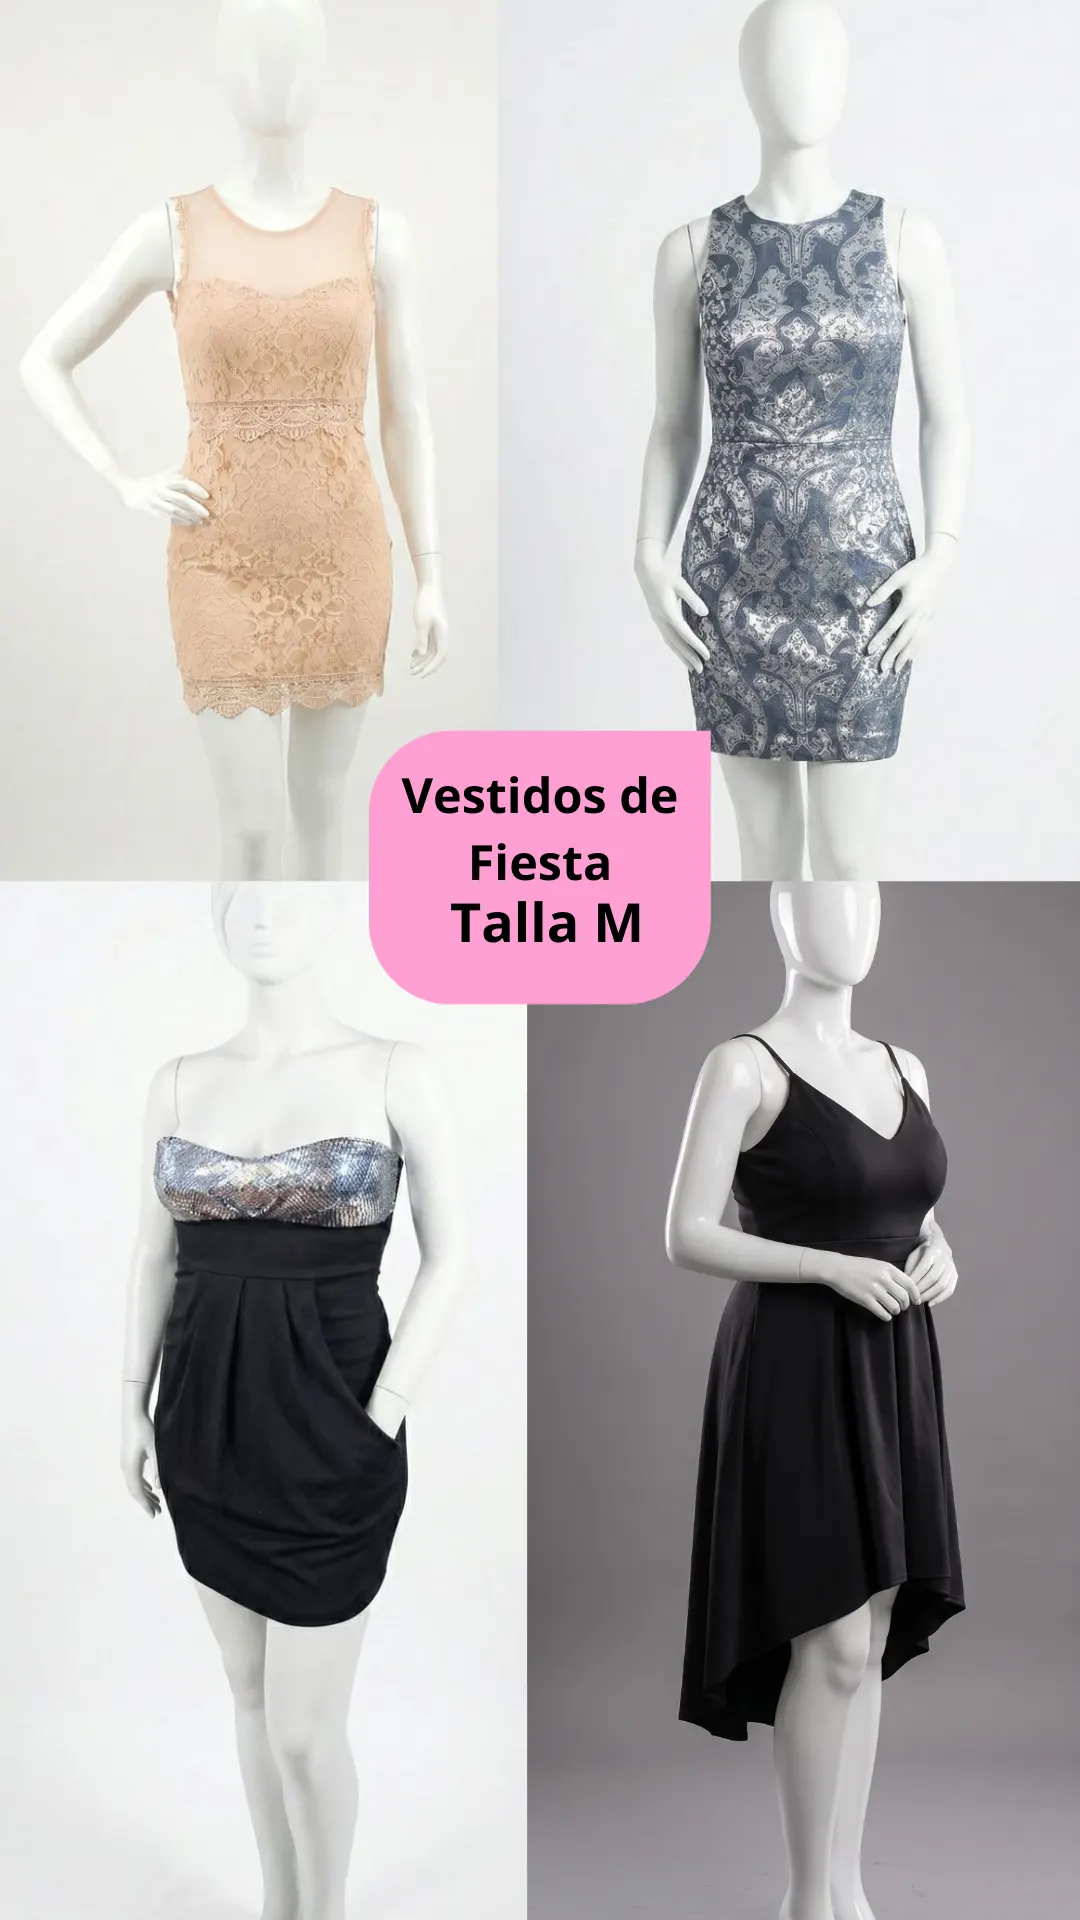
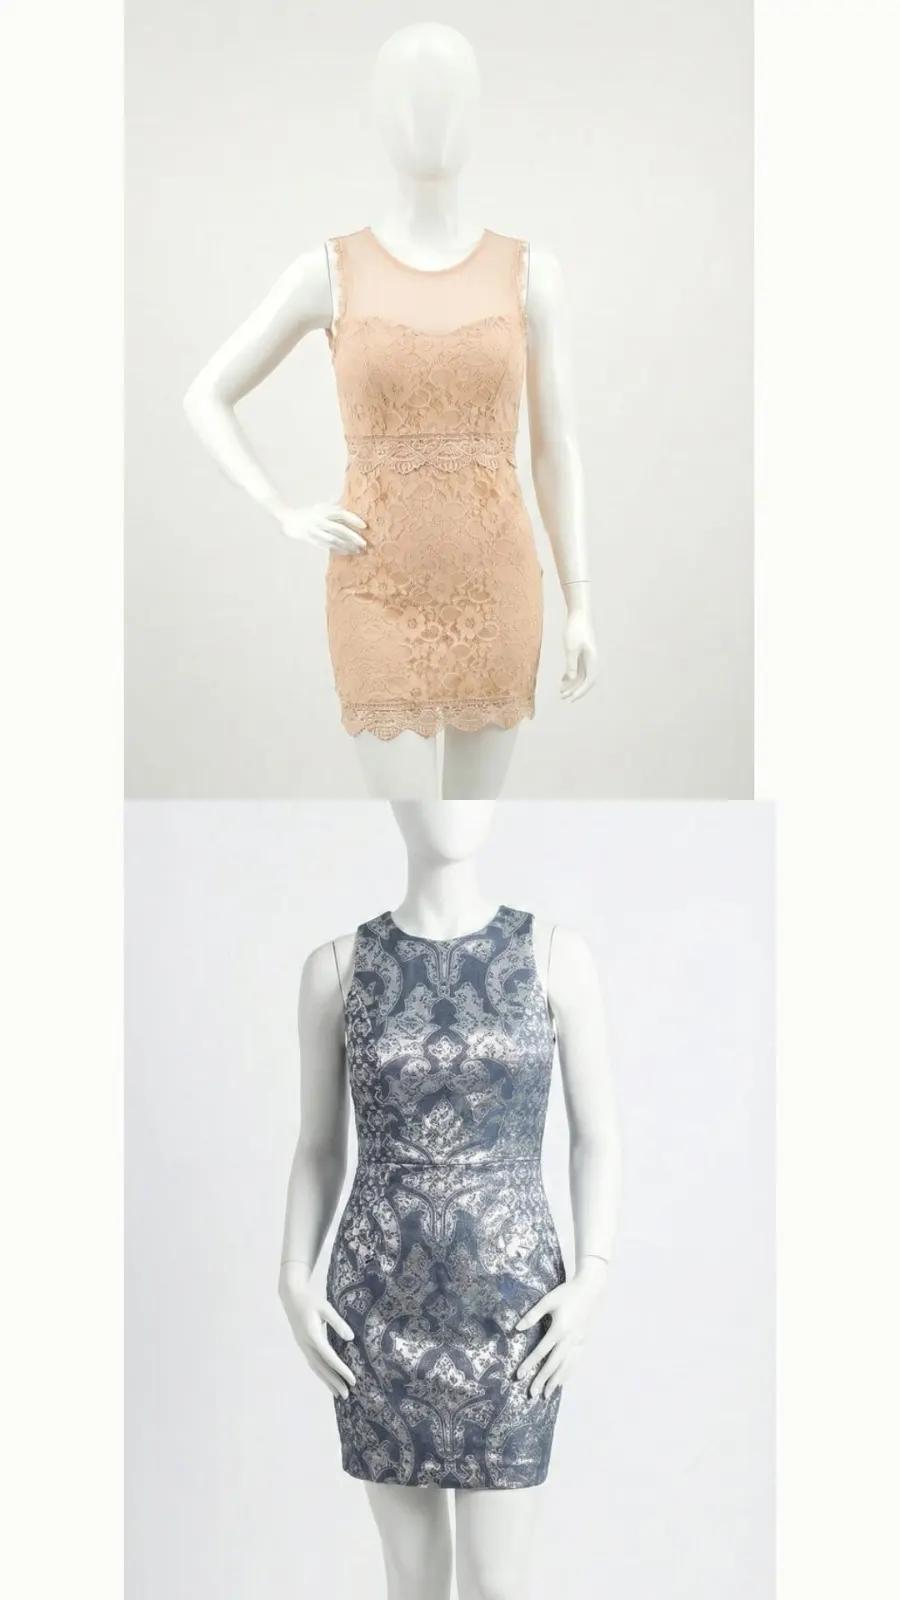
Add sold status to products and update UI accordingly

diff --git a/style.css b/style.css
@@ -61,11 +61,37 @@ body {
     transition: transform 0.2s ease;
     display: flex;
     flex-direction: column;
+    position: relative;
 }
 
 .card:hover {
     transform: translateY(-5px);
     box-shadow: 0 8px 25px rgba(0,0,0,0.1);
+}
+
+.card.card-sold {
+    filter: grayscale(0.65);
+    opacity: 0.9;
+}
+
+.card.card-sold:hover {
+    transform: none;
+    box-shadow: 0 4px 15px rgba(0,0,0,0.05);
+}
+
+.sold-badge {
+    position: absolute;
+    top: 0.8rem;
+    right: -2.5rem;
+    transform: rotate(35deg);
+    background: #C92A2A;
+    color: #fff;
+    font-weight: 700;
+    letter-spacing: 0.08em;
+    padding: 0.35rem 3rem;
+    z-index: 2;
+    box-shadow: 0 4px 10px rgba(0,0,0,0.2);
+    pointer-events: none;
 }
 
 .card picture {
@@ -151,4 +177,9 @@ body {
 
 .btn-whatsapp:hover {
     background-color: #128C7E;
+}
+
+.btn-disabled {
+    background-color: #9AA3AF;
+    cursor: not-allowed;
 }

diff --git a/app.js b/app.js
@@ -46,7 +46,8 @@ document.addEventListener("DOMContentLoaded", () => {
         .then(productos => {
             productos.forEach(producto => {
                 const card = document.createElement("article");
-                card.className = "card";
+                const isSold = producto.vendido === true || producto.estado === "vendido";
+                card.className = isSold ? "card card-sold" : "card";
 
                 // Validaciones para no romper el layout si falta algún dato
                 const precioSugeridoHtml = producto.precioSugerido
@@ -66,6 +67,7 @@ document.addEventListener("DOMContentLoaded", () => {
 
                 // Inyectamos el texto de la oportunidad directamente en el HTML
                 card.innerHTML = `
+                    ${isSold ? '<span class="sold-badge">VENDIDO</span>' : ""}
                     <img src="${imagenes[0]}" data-fallbacks="${encodedFallbacks}" alt="${producto.titulo}" loading="lazy">
                     <div class="card-content">
                         <h2>${producto.titulo}</h2>
@@ -76,9 +78,9 @@ document.addEventListener("DOMContentLoaded", () => {
                         <span class="sale-price">${producto.precioVenta}</span>
                         </div>
                         <p class="opportunity">¡Excelente oportunidad por viaje!</p>
-                        <a href="${linkWhatsapp}" target="_blank" rel="noopener noreferrer" class="btn-whatsapp">
-                            Consultar
-                        </a>
+                        ${isSold
+                            ? '<span class="btn-whatsapp btn-disabled">Vendido</span>'
+                            : `<a href="${linkWhatsapp}" target="_blank" rel="noopener noreferrer" class="btn-whatsapp">Consultar</a>`}
                     </div>
                 `;
 